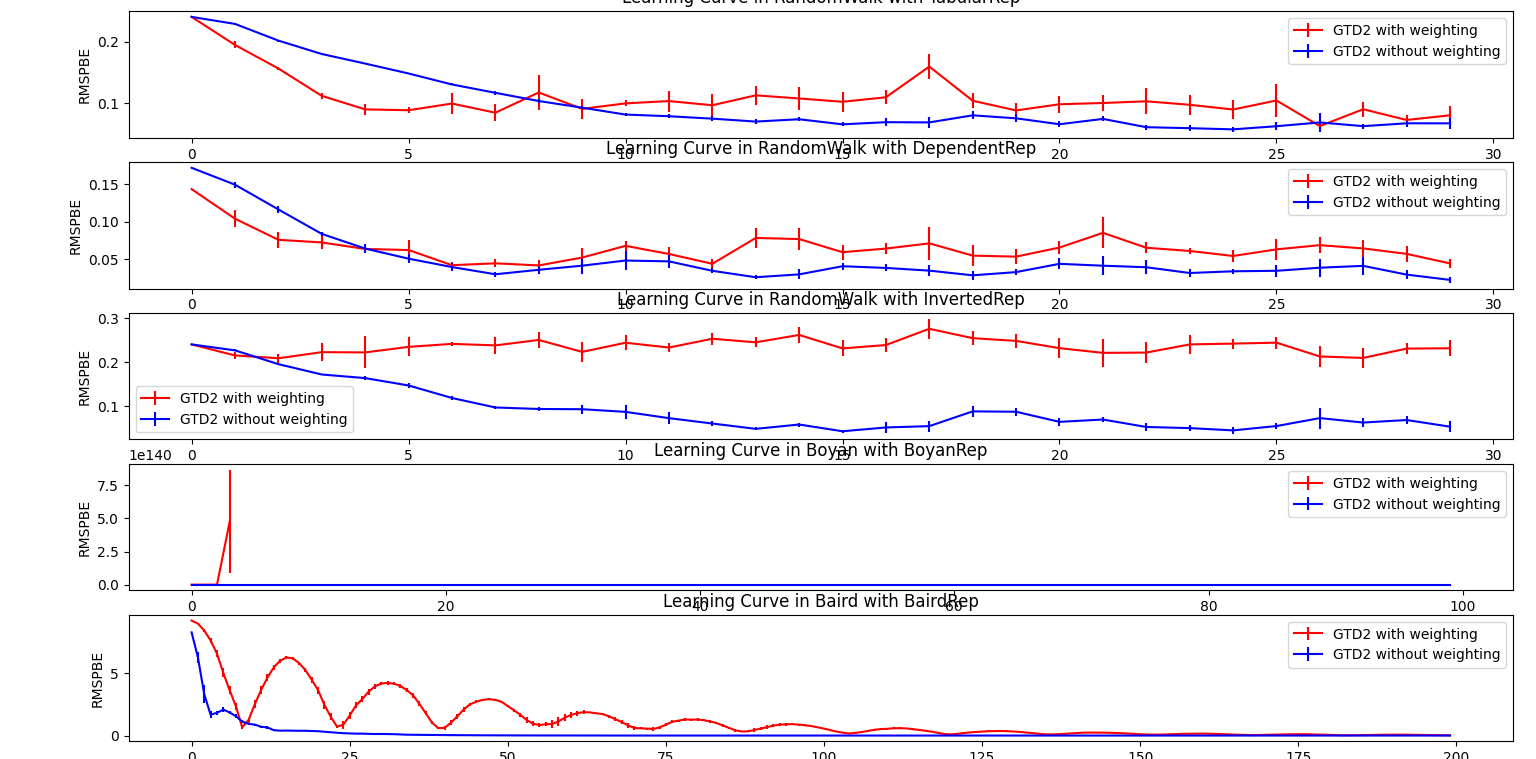
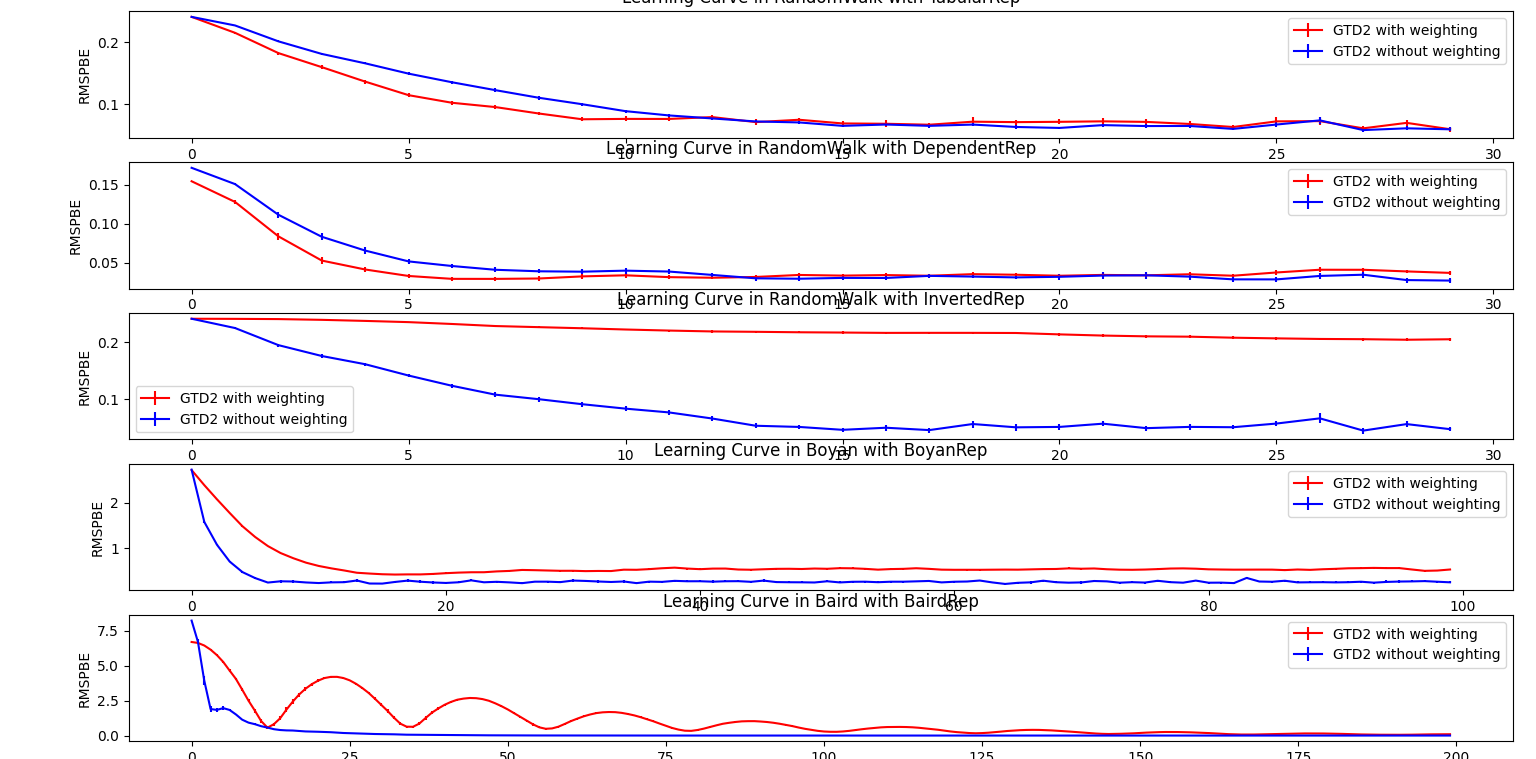
Experimenting with including scale in weighting. Simple probability loses too much information.

diff --git a/experiments/prediction/figure3.py b/experiments/prediction/figure3.py
@@ -1,0 +1,218 @@
+import numpy as np
+
+# source found at: https://github.com/andnp/RlGlue
+from RlGlue import RlGlue
+from utils.Collector import Collector
+from utils.policies import actionArrayToPolicy, matrixToPolicy
+from utils.rl_glue import RlGlueCompatWrapper
+from utils.errors import buildRMSPBE
+
+from environments.RandomWalk import RandomWalk, TabularRep, DependentRep, InvertedRep
+from environments.Boyan import Boyan, BoyanRep
+from environments.Baird import Baird, BairdRep
+
+from agents.TD import TD
+from agents.TDC import TDC
+from agents.HTD import HTD
+from agents.GTD2 import GTD2
+from agents.TDRC import TDRC
+from agents.Vtrace import Vtrace
+
+RUNS = 50
+
+PROBLEMS = [
+    # 5-state random walk environment with tabular features
+    {
+        'env': RandomWalk,
+        'representation': TabularRep,
+        # go LEFT 40% of the time
+        'target': actionArrayToPolicy([0.4, 0.6]),
+        # take each action equally
+        'behavior': actionArrayToPolicy([0.5, 0.5]),
+        'gamma': 1.0,
+        'steps': 3000,
+        # hardcode stepsizes found from parameter study
+        'stepsizes': {
+            'TD': 0.03125,
+            'TDRC': 0.03125,
+            'TDC': 0.0625,
+            'GTD2': 0.03125,
+            'GTDW': 0.015625,
+            'HTD': 0.03125,
+            'Vtrace': 0.03125,
+        }
+    },
+    # 5-state random walk environment with dependent features
+    {
+        'env': RandomWalk,
+        'representation': DependentRep,
+        # go LEFT 40% of the time
+        'target': actionArrayToPolicy([0.4, 0.6]),
+        # take each action equally
+        'behavior': actionArrayToPolicy([0.5, 0.5]),
+        'gamma': 1.0,
+        'steps': 3000,
+        # hardcode stepsizes found from parameter study
+        'stepsizes': {
+            'TD': 0.03125,
+            'TDRC': 0.03125,
+            'TDC': 0.0625,
+            'GTD2': 0.0625,
+            'GTDW': 0.03125,
+            'HTD': 0.03125,
+            'Vtrace': 0.03125,
+        }
+    },
+    # 5-state random walk environment with inverted features
+    {
+        'env': RandomWalk,
+        'representation': InvertedRep,
+        # go LEFT 40% of the time
+        'target': actionArrayToPolicy([0.4, 0.6]),
+        # take each action equally
+        'behavior': actionArrayToPolicy([0.5, 0.5]),
+        'gamma': 1.0,
+        'steps': 3000,
+        # hardcode stepsizes found from parameter study
+        'stepsizes': {
+            'TD': 0.125,
+            'TDRC': 0.125,
+            'TDC': 0.125,
+            'GTD2': 0.125,
+            'GTDW': 0.015625,
+            'HTD': 0.125,
+            'Vtrace': 0.125,
+        }
+    },
+    # Boyan's chain
+    {
+        'env': Boyan,
+        'representation': BoyanRep,
+        # go LEFT 40% of the time
+        'target': matrixToPolicy([[.5, .5]] * 10 + [[1., 0.]] * 2),
+        # take each action equally
+        'behavior': matrixToPolicy([[.5, .5]] * 10 + [[1., 0.]] * 2),
+        'gamma': 1.0,
+        'steps': 10000,
+        # hardcode stepsizes found from parameter study
+        'stepsizes': {
+            'TD': 0.0625,
+            'TDRC': 0.0625,
+            'TDC': 0.5,
+            'GTD2': 0.5,
+            'GTDW': 0.0078125,
+            'HTD': 0.0625,
+            'Vtrace': 0.0625,
+        }
+    },
+    # Baird's Counter-example domain
+    {
+        'env': Baird,
+        'representation': BairdRep,
+        # go LEFT 40% of the time
+        'target': actionArrayToPolicy([0., 1.]),
+        # take each action equally
+        'behavior': actionArrayToPolicy([6/7, 1/7]),
+        'starting_condition': np.array([1, 1, 1, 1, 1, 1, 1, 10]),
+        'gamma': 0.99,
+        'steps': 20000,
+        # hardcode stepsizes found from parameter study
+        'stepsizes': {
+            'TD': 0.00390625,
+            'TDRC': 0.015625,
+            'TDC': 0.00390625,
+            'GTD2': 0.00390625,
+            'GTDW': 0.00390625,
+            'HTD': 0.00390625,
+            'Vtrace': 0.00390625,
+        }
+    },
+]
+
+STEPSIZES = [2**(i) for i in range(-9, -3)]  # [2^-6, 2^-5, ..., 2^5, 2^6]
+LEARNER = GTD2
+
+# -----------------------------------
+# Collect Data for Stepsize Sweep
+# -----------------------------------
+
+collector = Collector()
+
+for run in range(RUNS):
+    for problem in PROBLEMS:
+        env_name = problem['env'].__name__
+        rep_name = problem['representation'].__name__
+        
+        for stepsize in STEPSIZES:
+            # Reproducibility and reset
+            np.random.seed(run)
+
+            # Environment and representation
+            Env = problem['env']
+            env = Env()
+            target = problem['target']
+            Rep = problem['representation']
+            rep = Rep(weighted=True)
+
+            print(f"Run {run}, Env: {env_name}, Rep: {rep_name}, Stepsize: {stepsize}")
+
+            X, P, R, D = env.getXPRD(target, rep)
+            RMSPBE = buildRMSPBE(X, P, R, D, problem['gamma'])
+
+            # Learner with current stepsize
+            learner = LEARNER(rep.features(), {
+                'gamma': problem['gamma'],
+                'alpha': stepsize,
+                'beta': 1,
+            })
+
+            # Agent and experiment setup (similar to previous experiments)
+            agent = RlGlueCompatWrapper(learner, problem['behavior'], problem['target'], rep.encode)
+            glue = RlGlue(agent, env)
+            glue.start()
+
+            for step in range(problem['steps']):
+                _, _, _, terminal = glue.step()
+                if terminal:
+                    glue.start()
+
+                if step % 100 == 0:
+                    w = learner.getWeights()
+                    rmspbe = RMSPBE(w)
+                    collector.collect(f"{env_name}-{rep_name}-{stepsize}", rmspbe)
+
+            collector.reset()
+
+# ---------------------
+# Plotting Stepsize Sweep
+# ---------------------
+
+import matplotlib.pyplot as plt
+
+# Create subplots for each problem/representation
+fig, axs = plt.subplots(len(PROBLEMS), 1, figsize=(10, 5 * len(PROBLEMS)))
+if len(PROBLEMS) == 1:
+    axs = [axs]
+
+for i, problem in enumerate(PROBLEMS):
+    env_name = problem['env'].__name__
+    rep_name = problem['representation'].__name__
+    ax = axs[i]
+    ax.set_title(f'Stepsize Sweep in {env_name} with {rep_name}')
+    ax.set_xlabel('Stepsize')
+    ax.set_ylabel('RMSPBE')
+    ax.set_xscale('log', base=2)  # Log scale for stepsize (base 2)
+
+    mean_rmspbes = []
+    stderr_rmspbes = []
+    for stepsize in STEPSIZES:
+        data_key = f"{env_name}-{rep_name}-{stepsize}"
+        mean_curve, stderr_curve, _ = collector.getStats(data_key)
+        mean_rmspbes.append(mean_curve.mean())
+        stderr_rmspbes.append(stderr_curve.mean())
+        print(f"Stepsize: {stepsize}, Mean RMSPBE: {mean_rmspbes[-1]:.4f}, StdErr: {stderr_rmspbes[-1]:.4f}")
+    ax.errorbar(STEPSIZES, mean_rmspbes, yerr=stderr_rmspbes, capsize=3)
+
+plt.tight_layout()
+plt.show()
+fig.savefig(r'G:\My Drive\Regularized-GradientTD\figures\figure_stepsize_sweep.png')

diff --git a/experiments/prediction/figure2.py b/experiments/prediction/figure2.py
@@ -22,7 +22,7 @@ from agents.Vtrace import Vtrace
 # Set up parameters for experiment
 # --------------------------------
 
-RUNS = 5
+RUNS = 20
 LEARNERS = [GTD2, TDC, Vtrace, HTD, TD, TDRC]
 LEARNER = GTD2
 
@@ -43,6 +43,8 @@ PROBLEMS = [
             'TDRC': 0.03125,
             'TDC': 0.0625,
             'GTD2': 0.03125,
+            'GTDW': 0.015625,
+            'GTDW2': 0.03125,
             'HTD': 0.03125,
             'Vtrace': 0.03125,
         }
@@ -63,6 +65,8 @@ PROBLEMS = [
             'TDRC': 0.03125,
             'TDC': 0.0625,
             'GTD2': 0.0625,
+            'GTDW': 0.03125,
+            'GTDW2': 0.0625,
             'HTD': 0.03125,
             'Vtrace': 0.03125,
         }
@@ -83,6 +87,8 @@ PROBLEMS = [
             'TDRC': 0.125,
             'TDC': 0.125,
             'GTD2': 0.125,
+            'GTDW': 0.015625,
+            'GTDW2': 0.0625,
             'HTD': 0.125,
             'Vtrace': 0.125,
         }
@@ -103,6 +109,8 @@ PROBLEMS = [
             'TDRC': 0.0625,
             'TDC': 0.5,
             'GTD2': 0.5,
+            'GTDW': 0.0078125,
+            'GTDW2': 0.03125,
             'HTD': 0.0625,
             'Vtrace': 0.0625,
         }
@@ -124,6 +132,8 @@ PROBLEMS = [
             'TDRC': 0.015625,
             'TDC': 0.00390625,
             'GTD2': 0.00390625,
+            'GTDW': 0.00390625,
+            'GTDW2': 0.00390625,
             'HTD': 0.00390625,
             'Vtrace': 0.00390625,
         }
@@ -171,7 +181,7 @@ for run in range(RUNS):
                 # build a new instance of the learning algorithm
                 learner = Learner(rep.features(), {
                     'gamma': problem['gamma'],
-                    'alpha': problem['stepsizes'][Learner.__name__] if not using_weighting else problem['stepsizes'][Learner.__name__] / 1,
+                    'alpha': problem['stepsizes'][Learner.__name__] if not using_weighting else problem['stepsizes']['GTDW2'],
                     'beta': 1,
                 })
 

diff --git a/experiments/prediction/environments/RandomWalk.py b/experiments/prediction/environments/RandomWalk.py
@@ -1,7 +1,7 @@
 import numpy as np
 from enum import Enum
 from RlGlue import BaseEnvironment
-from utils.weighting import features_to_probabilities
+from utils.weighting import to_weighted_features
 
 # Constants
 LEFT = 0
@@ -86,8 +86,10 @@ class InvertedRep:
         self.map = np.zeros((N + 1, N))
         self.map[:N] = (m.T / np.linalg.norm(m, axis = 1)).T
 
+        self.original_map = self.map.copy()
+
         if weighted:
-            self.map = features_to_probabilities(self.map)
+            self.map = to_weighted_features(self.map)
 
     def encode(self, s):
         return self.map[s]
@@ -109,8 +111,10 @@ class TabularRep:
         self.map = np.zeros((N + 1, N))
         self.map[:N] = m
 
+        self.original_map = self.map.copy()
+
         if weighted:
-            self.map = features_to_probabilities(self.map)
+            self.map = to_weighted_features(self.map)
 
     def encode(self, s):
         return self.map[s]
@@ -142,8 +146,10 @@ class DependentRep:
 
         self.map[:N] = (self.map[:N].T / np.linalg.norm(self.map[:N], axis = 1)).T
 
+        self.original_map = self.map.copy()
+
         if weighted:
-            self.map = features_to_probabilities(self.map)
+            self.map = to_weighted_features(self.map)
 
     def encode(self, s):
         return self.map[s]

diff --git a/experiments/prediction/environments/Boyan.py b/experiments/prediction/environments/Boyan.py
@@ -1,7 +1,7 @@
 import numpy as np
 from enum import Enum
 from RlGlue import BaseEnvironment
-from utils.weighting import features_to_probabilities
+from utils.weighting import to_weighted_features
 
 # Constants
 
@@ -80,8 +80,11 @@ class BoyanRep:
             [0,    0,    0.25, 0.75],
             [0,    0,    0,    1   ],
         ])
+
+        self.original_map = self.map.copy()
+
         if weighted:
-            self.map = features_to_probabilities(self.map)
+            self.map = to_weighted_features(self.map)
 
     def encode(self, s):
         return self.map[s]

diff --git a/experiments/prediction/environments/Baird.py b/experiments/prediction/environments/Baird.py
@@ -1,6 +1,6 @@
 import numpy as np
 from RlGlue import BaseEnvironment
-from utils.weighting import features_to_probabilities
+from utils.weighting import to_weighted_features
 
 # Constants
 DASH = 0
@@ -55,8 +55,10 @@ class BairdRep:
             [1, 0, 0, 0, 0, 0, 2, 0],
             [2, 0, 0, 0, 0, 0, 0, 1],
         ])
+
+        self.original_map = self.map.copy()
         if weighted:
-            self.map = features_to_probabilities(self.map)
+            self.map = to_weighted_features(self.map)
 
     def encode(self, s):
         return self.map[s]

diff --git a/experiments/prediction/utils/weighting.py b/experiments/prediction/utils/weighting.py
@@ -27,3 +27,9 @@ def features_to_probabilities(state_space):
             probability_state_space[:, feature_idx][state_space[:, feature_idx] == value] = log_probabilities[i]
 
     return probability_state_space
+
+def to_weighted_features(state_space):
+    probability_state_space = features_to_probabilities(state_space)
+    sigmoid_state_space = 1 / (1 + np.exp(-state_space))
+    weighted_state_space = sigmoid_state_space * probability_state_space
+    return weighted_state_space
